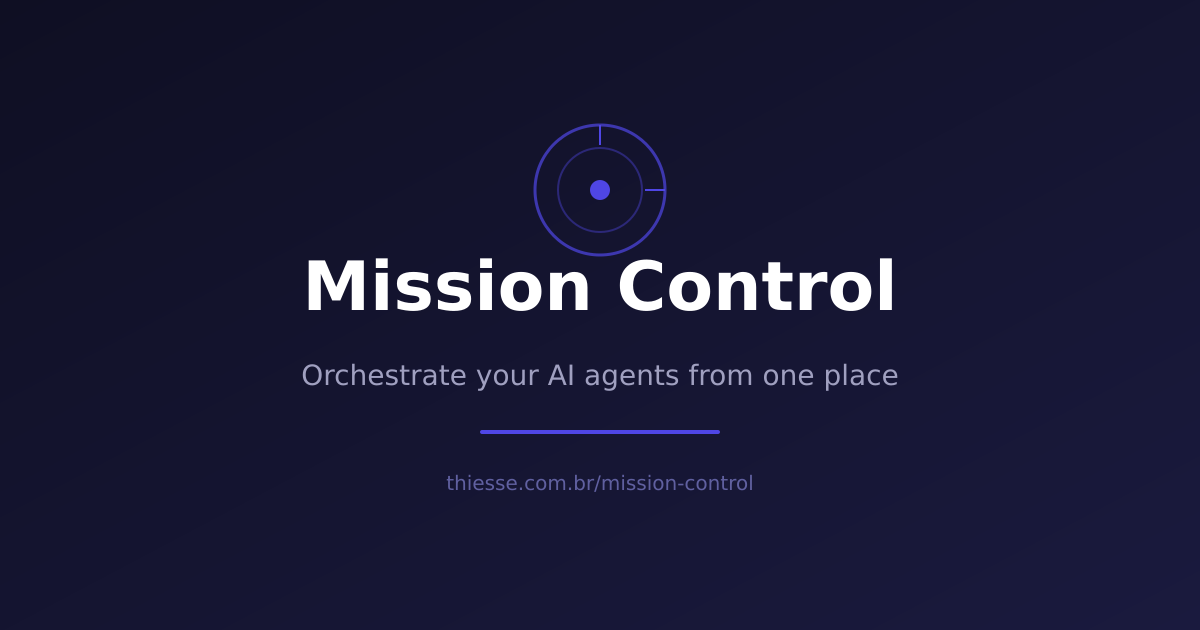
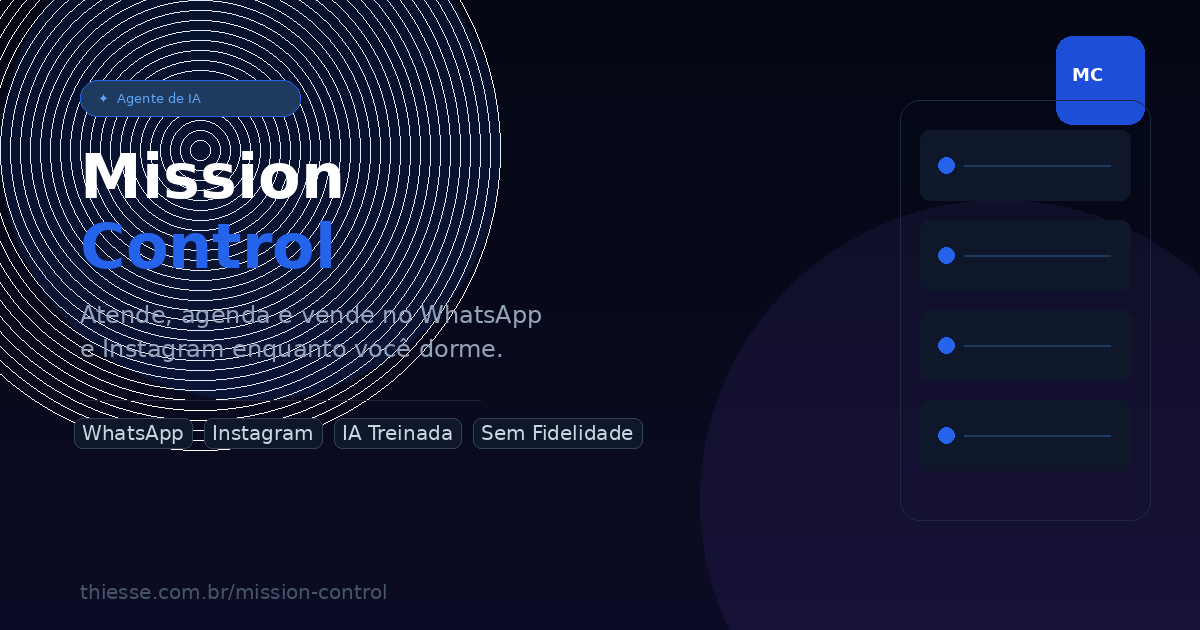
feat: título e OG image do /mission-control atualizados

diff --git a/src/pages/MissionControl.tsx b/src/pages/MissionControl.tsx
@@ -1,5 +1,6 @@
 import { Shield, MessageCircle, Instagram, Bot, CheckCircle2, ArrowRight, ChevronDown, Clock, TrendingUp, Zap } from "lucide-react";
 import { useState } from "react";
+import { Helmet } from "react-helmet-async";
 
 const FAQ_ITEMS = [
   {
@@ -47,6 +48,17 @@ function FAQItem({ q, a }: { q: string; a: string }) {
 export default function MissionControl() {
   return (
     <div className="min-h-screen bg-gray-950 text-white font-sans">
+      <Helmet>
+        <title>Mission Control — Agente de IA para WhatsApp e Instagram</title>
+        <meta name="description" content="Agente de IA para WhatsApp e Instagram que atende, agenda e vende enquanto você dorme. A partir de R$297/mês." />
+        <meta property="og:title" content="Mission Control — Agente de IA para WhatsApp e Instagram" />
+        <meta property="og:description" content="Agente de IA para WhatsApp e Instagram que atende, agenda e vende enquanto você dorme. A partir de R$297/mês." />
+        <meta property="og:image" content="https://thiesse.com.br/og-mission-control.png" />
+        <meta property="og:url" content="https://thiesse.com.br/mission-control" />
+        <meta name="twitter:title" content="Mission Control — Agente de IA para WhatsApp e Instagram" />
+        <meta name="twitter:description" content="Agente de IA para WhatsApp e Instagram que atende, agenda e vende enquanto você dorme." />
+        <meta name="twitter:image" content="https://thiesse.com.br/og-mission-control.png" />
+      </Helmet>
 
       {/* Header */}
       <header className="border-b border-gray-800 px-6 py-4">